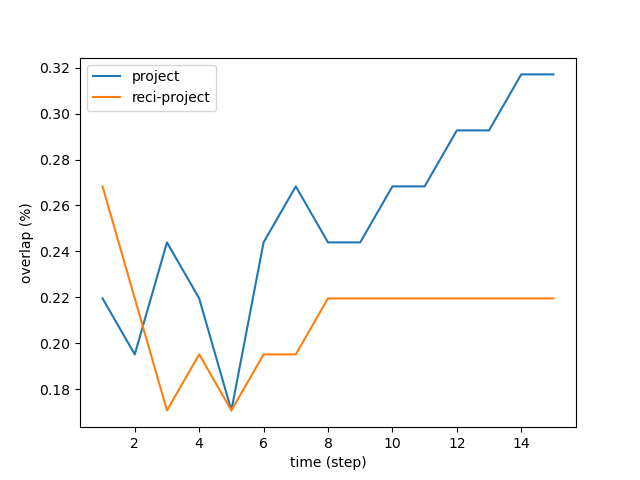
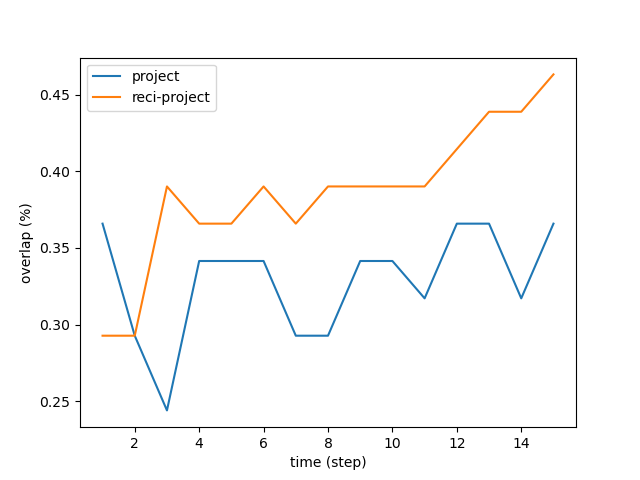
plotted average over 10 trials

diff --git a/replication/simulation.py b/replication/simulation.py
@@ -9,12 +9,13 @@ import copy
 import seaborn as sns
 
 
-def double_project_associate(num_neurons=1000, beta=0.05,
+def double_project_associate(x=None, num_neurons=1000, beta=0.05,
                              k=41, connection_p=0.01):
     # initialize stimulus x
-    x = np.zeros(num_neurons)
-    stim = np.random.permutation(num_neurons)[:k]
-    x[stim] = 1.0
+    if x is None:
+        x = np.zeros(num_neurons)
+        stim = np.random.permutation(num_neurons)[:k]
+        x[stim] = 1.0
 
     # initialize brain
     brain = Brain(num_areas=4, n=num_neurons, beta=beta,
@@ -89,12 +90,13 @@ def double_project_associate(num_neurons=1000, beta=0.05,
     return result
 
 
-def reciprocal_project_associate(num_neurons=1000, beta=0.05,
+def reciprocal_project_associate(x=None, num_neurons=1000, beta=0.05,
                                  k=41, connection_p=0.01):
     # initialize stimulus x
-    x = np.zeros(num_neurons)
-    stim = np.random.permutation(num_neurons)[:k]
-    x[stim] = 1.0
+    if x is None:
+        x = np.zeros(num_neurons)
+        stim = np.random.permutation(num_neurons)[:k]
+        x[stim] = 1.0
 
     # initialize brain
     brain = Brain(num_areas=4, n=num_neurons, beta=beta,
@@ -141,17 +143,49 @@ def reciprocal_project_associate(num_neurons=1000, beta=0.05,
 
 if __name__ == "__main__":
 
-    # plot associate
     for i in range(10):
-        result_proj = double_project_associate()
-        result_reci = reciprocal_project_associate()
+        print('figure %i' % (i))
+        # run experiment for 10 trials and plot avrage
+        x = np.zeros(1000)
+        stim = np.random.permutation(1000)[:41]
+        x[stim] = 1.0
+        concat_proj = np.zeros((10, 15))
+        concat_reci = np.zeros((10, 15))
+
+        for itrial in range(10):
+            result_proj = double_project_associate(x)
+            concat_proj[itrial] = result_proj
+
+            result_reci = reciprocal_project_associate(x)
+            concat_reci[itrial] = result_reci
+
+        proj_mean = np.mean(concat_proj, axis=0)
+        reci_mean = np.mean(concat_reci, axis=0)
         plt.figure()
-        plt.plot([i+1 for i in range(len(result_proj))],
-                 result_proj, label="project")
-        plt.plot([i+1 for i in range(len(result_reci))],
-                 result_reci, label="reci-project")
+        plt.plot([i+1 for i in range(len(proj_mean))],
+                 proj_mean, label="project")
+        plt.plot([i+1 for i in range(len(reci_mean))],
+                 reci_mean, label="reci-project")
         plt.legend()
         plt.xlabel('time (step)')
         plt.ylabel('overlap (%)')
         # plt.show()
-        plt.savefig('reciprocal_associate_figures/%i.png' % (i))
+        plt.savefig('ten_trials_average/%i.png' % (i))
+
+    # plot associate
+    # for i in range(10):
+    #     x = np.zeros(1000)
+    #     stim = np.random.permutation(1000)[:41]
+    #     x[stim] = 1.0
+    #     result_proj = double_project_associate(x)
+    #     result_reci = reciprocal_project_associate(x)
+    #     plt.figure()
+    #     plt.plot([i+1 for i in range(len(result_proj))],
+    #              result_proj, label="project")
+    #     plt.plot([i+1 for i in range(len(result_reci))],
+    #              result_reci, label="reci-project")
+    #     plt.legend()
+    #     plt.xlabel('time (step)')
+    #     plt.ylabel('overlap (%)')
+    #     # plt.show()
+    #     plt.savefig('reciprocal_associate_figures/%i.png' % (i))
